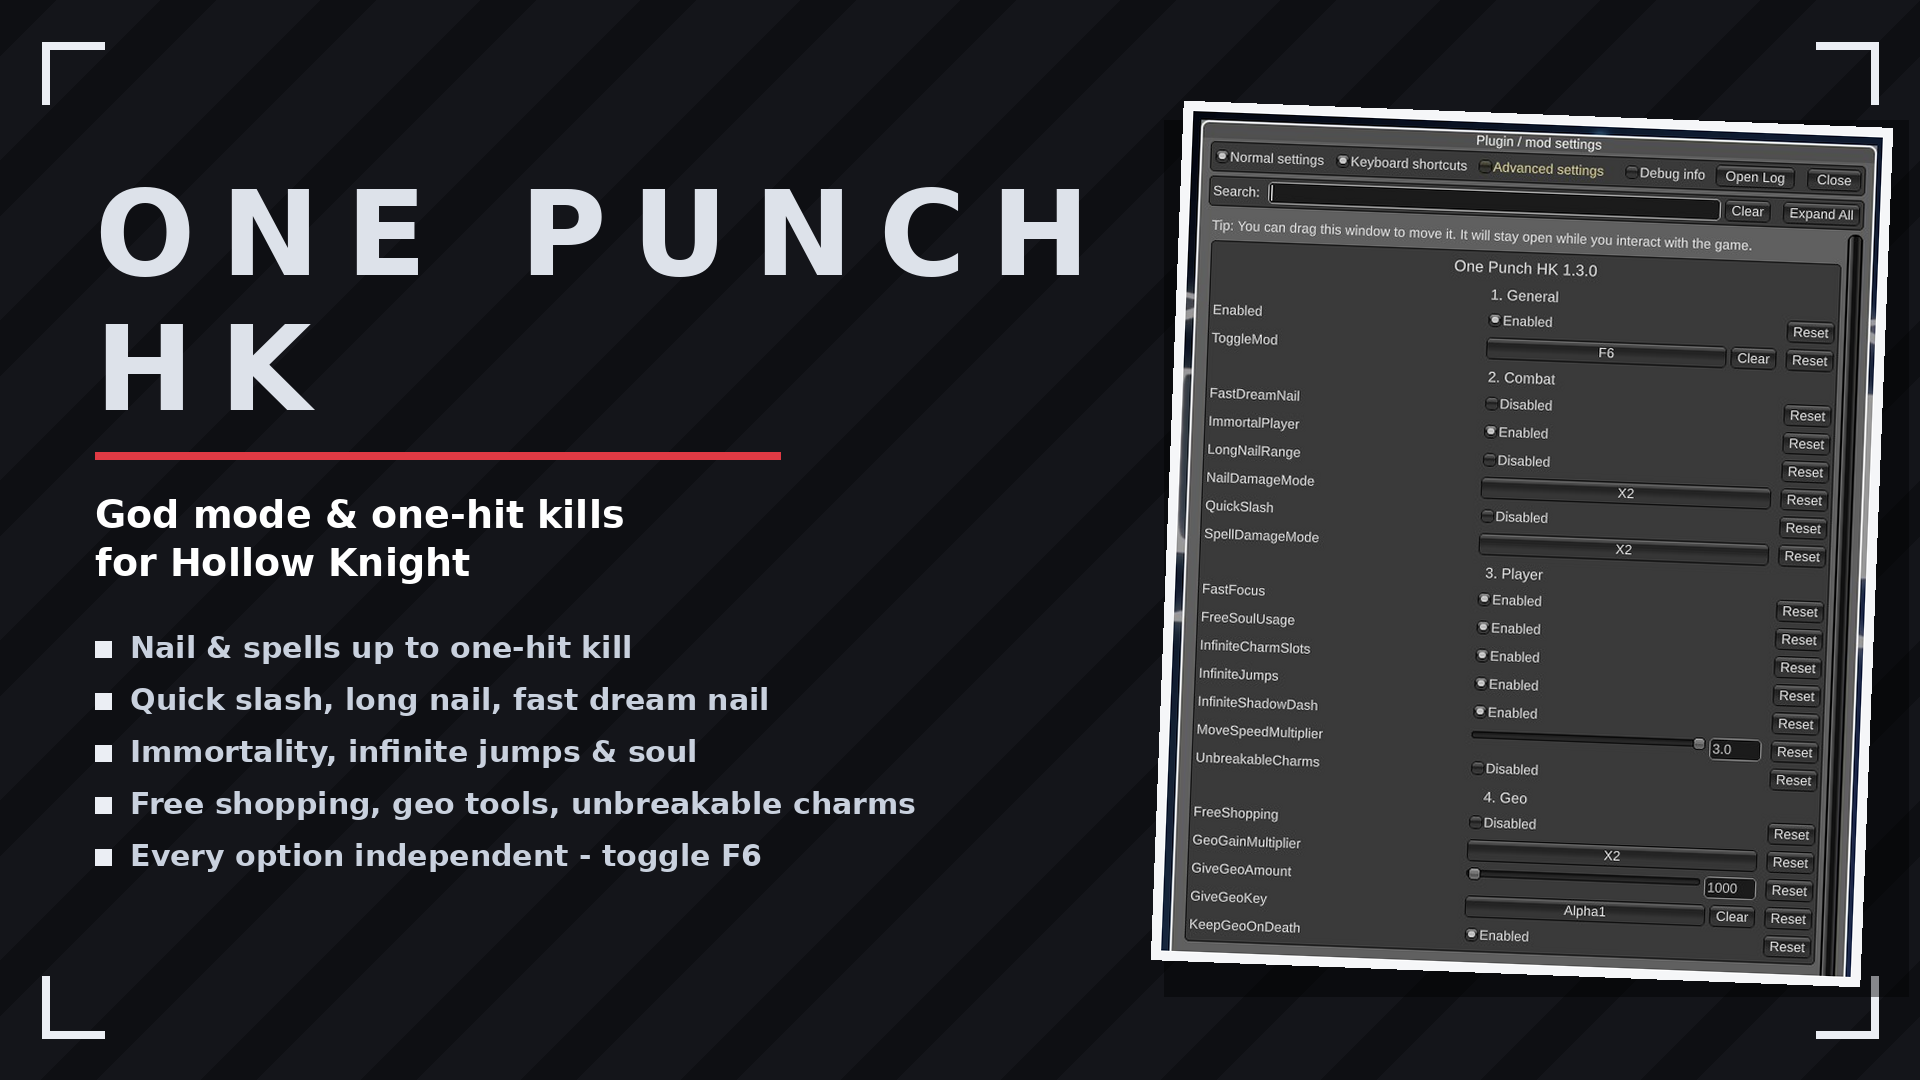
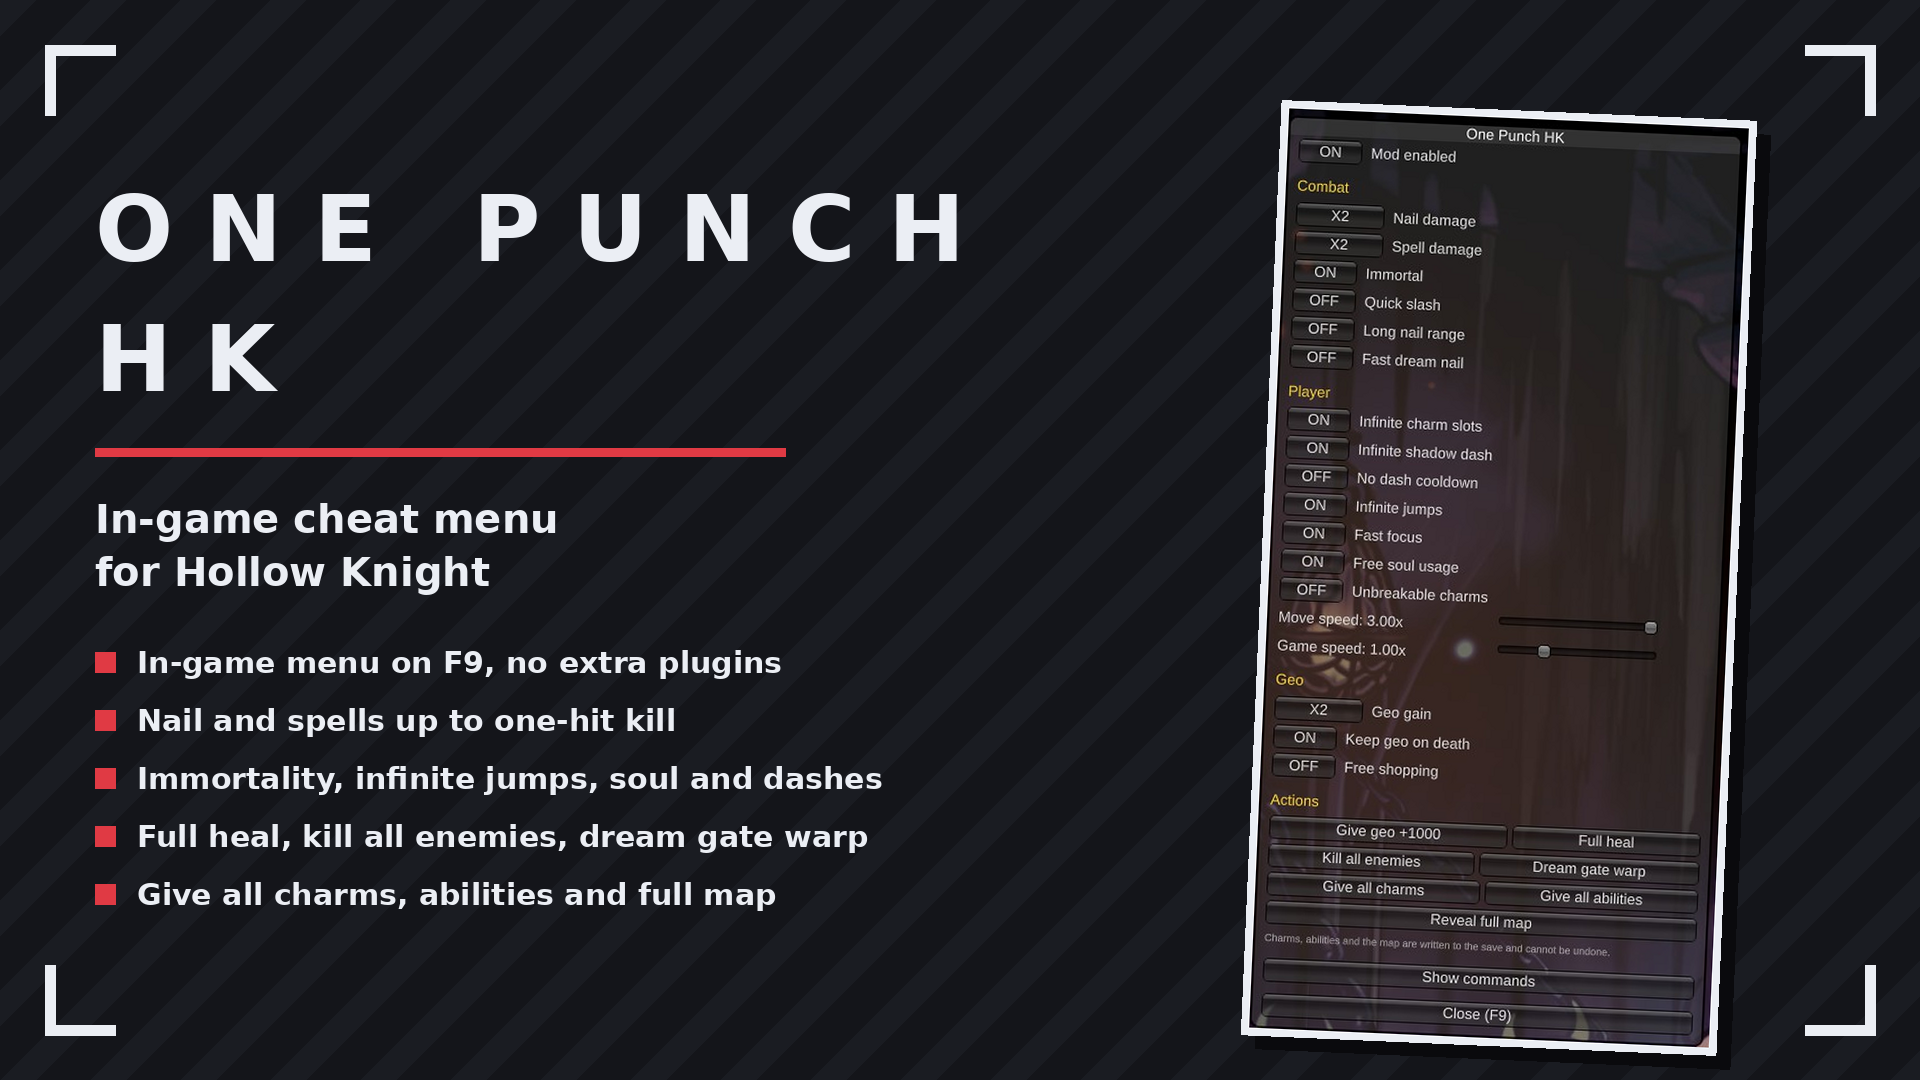
OnePunchHK 2.0.0

diff --git a/Hollow Knight/OnePunchHK/README.md b/Hollow Knight/OnePunchHK/README.md
@@ -4,17 +4,19 @@
 
 ![cover](screenshots/00-hero.png)
 
-Nail and spell damage up to one-hit kill, immortality, infinite jumps, geo multipliers and more. Every option independent, toggle with F6.
+In-game cheat menu for Hollow Knight. Press F9, toggle what you want, no other plugin needed.
 
 ## ✨ Features
+- In-game menu on F9, everything live
 - Nail & spells up to one-hit kill
 - Quick slash, long nail range, fast dream nail
-- Immortality, infinite jumps & soul, unbreakable charms
+- Immortality, infinite jumps & soul, unbreakable charms, no dash cooldown
+- Move speed and game speed sliders
 - Geo multipliers, keep geo on death, free shopping, give geo
-- Every option independent - toggle F6
+- Full heal, kill all enemies, give all charms & abilities, reveal full map
 
 ## 📸 Screenshots
-![1.3.0](screenshots/01-v1.3.0.png)
+![menu](screenshots/01-menu.png)
 
 ## 🌍 Translating
 Texts live in `I18n.cs`, one dictionary per language keyed by the English string. To add a
